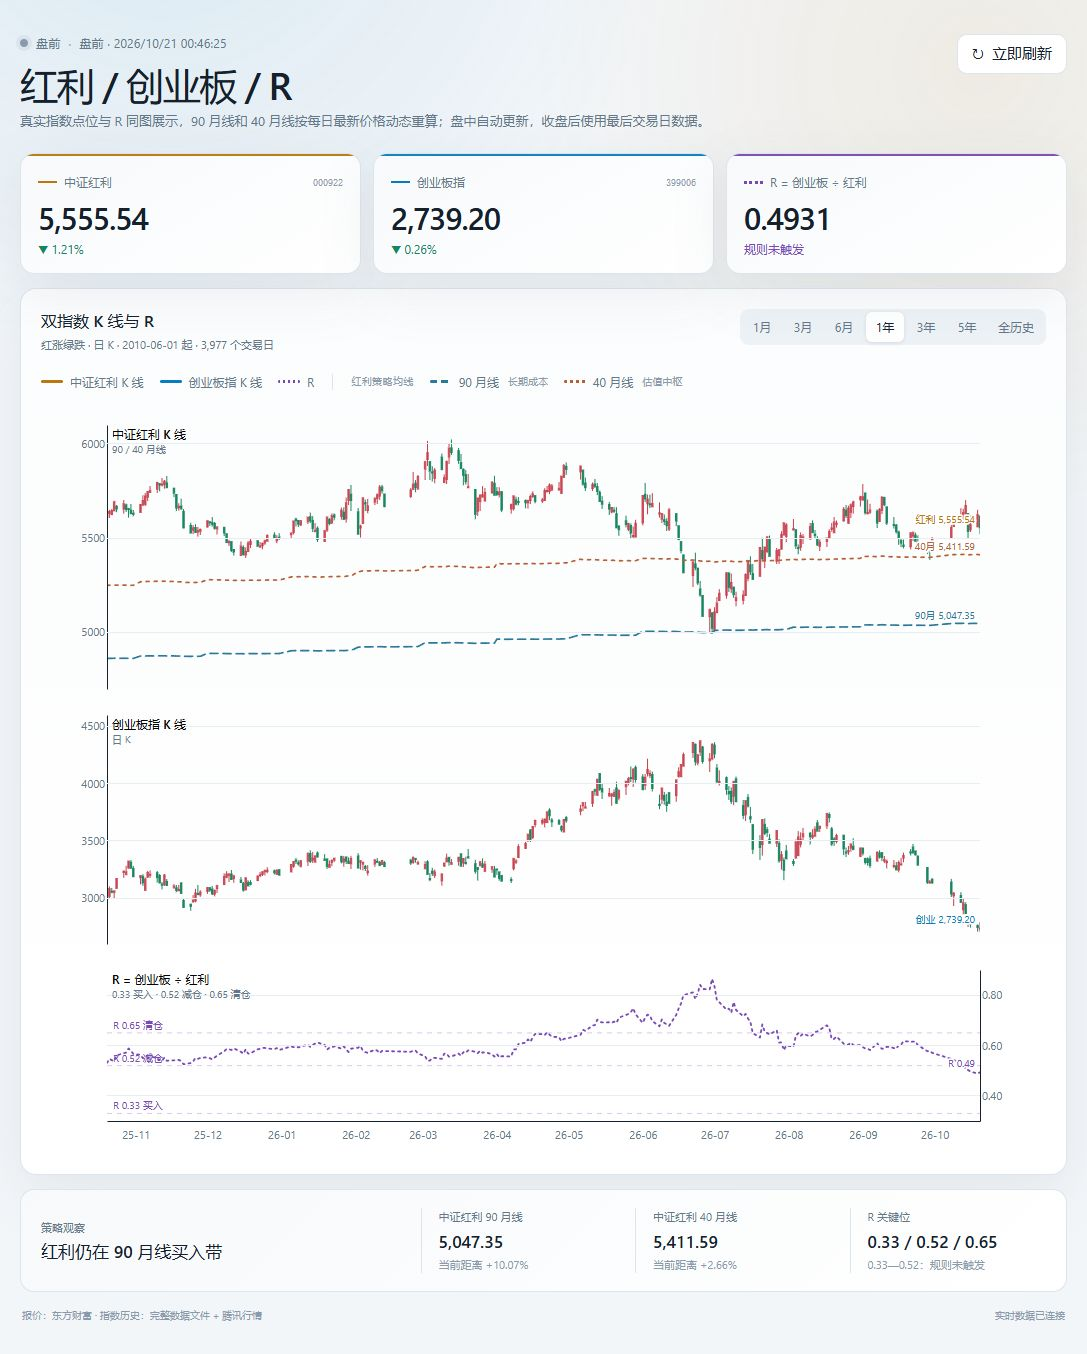
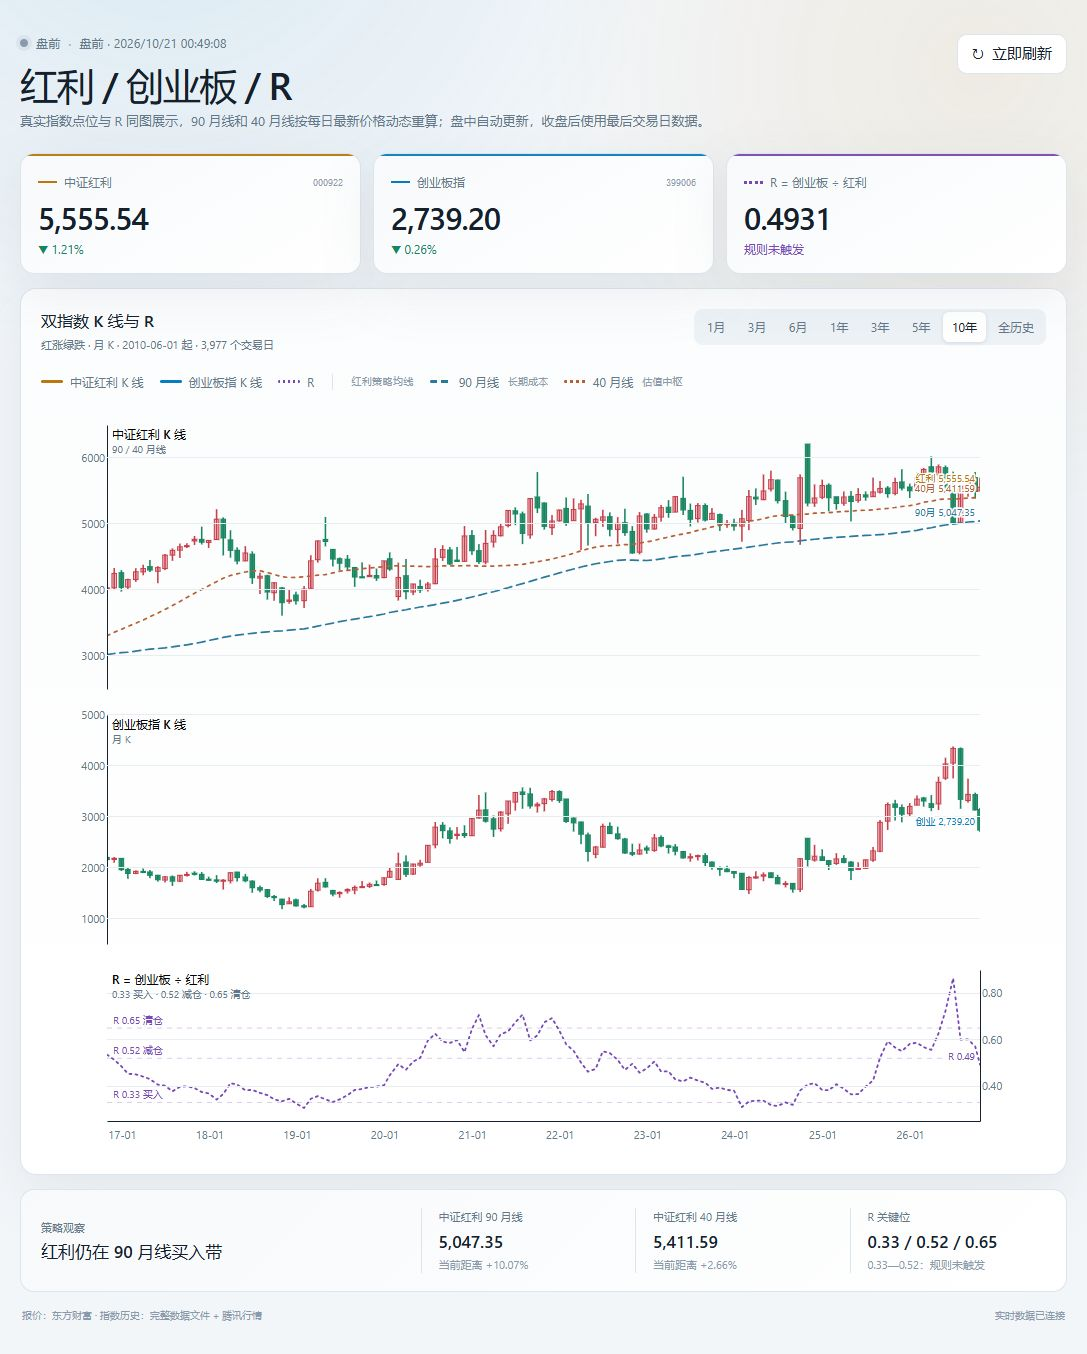
Add ten-year chart range

diff --git a/Money/live-market-dashboard/app.js b/Money/live-market-dashboard/app.js
@@ -13,7 +13,7 @@ const state = {
   error: false
 };
 
-const rangeDays = { '1m': 31, '3m': 92, '6m': 183, '1y': 366, '3y': 1096, '5y': 1826, all: null };
+const rangeDays = { '1m': 31, '3m': 92, '6m': 183, '1y': 366, '3y': 1096, '5y': 1826, '10y': 3653, all: null };
 const seriesMeta = {
   zzhl: { label: '中证红利', color: '--zzhl', raw: value => `${Number(value).toFixed(2)} 点` },
   cyb: { label: '创业板指', color: '--cyb', raw: value => `${Number(value).toFixed(2)} 点` },
@@ -212,7 +212,7 @@ function renderChart() {
   const rawRows = state.data.series.filter(row => !start || parseDate(row.date) >= start);
   if (rawRows.length < 2) return;
 
-  const mode = state.range === 'all' ? 'month'
+  const mode = (state.range === 'all' || state.range === '10y') ? 'month'
     : (state.range === '3y' || state.range === '5y') ? 'week'
     : (width < 560 && state.range === '1y') ? 'week'
     : 'day';

diff --git a/Money/live-market-dashboard/index.html b/Money/live-market-dashboard/index.html
@@ -58,6 +58,7 @@
           <button type="button" data-range="1y" aria-pressed="true">1年</button>
           <button type="button" data-range="3y">3年</button>
           <button type="button" data-range="5y">5年</button>
+          <button type="button" data-range="10y">10年</button>
           <button type="button" data-range="all">全历史</button>
         </div>
       </div>
@@ -118,6 +119,6 @@
   </svg>
 
   <script src="vendor/d3.min.js"></script>
-  <script src="app.js?v=9"></script>
+  <script src="app.js?v=10"></script>
 </body>
 </html>

diff --git a/Money/live-market-dashboard/README.md b/Money/live-market-dashboard/README.md
@@ -18,7 +18,7 @@
 ## 图表口径
 
 - 上方为红利 K 线及 90/40 月线，中间为创业板指 K 线，下方独立显示 R。
-- 红涨绿跌；1 年内使用日 K，3—5 年自动聚合为周 K，全历史使用月 K，移动端 1 年自动切换周 K。
+- 红涨绿跌；1 年内使用日 K，3—5 年自动聚合为周 K，10 年及全历史使用月 K，移动端 1 年自动切换周 K。
 - R 面板保留 0.33、0.52、0.65 三条策略参考线。
 - 90 月线和 40 月线使用历史月收盘价计算，并把当前交易日的价格作为当月暂定收盘动态更新。
 - 交易时段每 10 秒刷新报价；非交易时段每 5 分钟检查一次。
